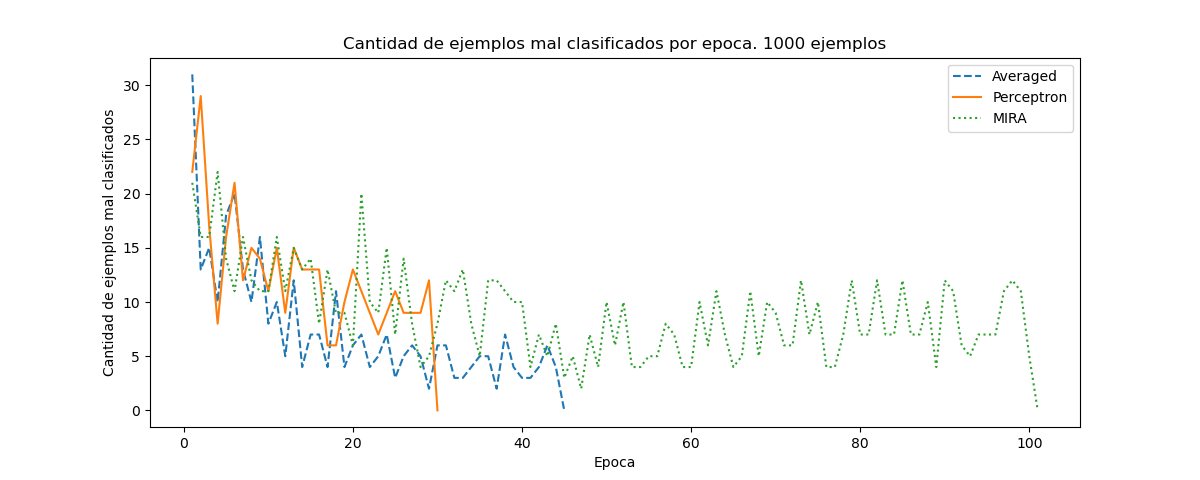
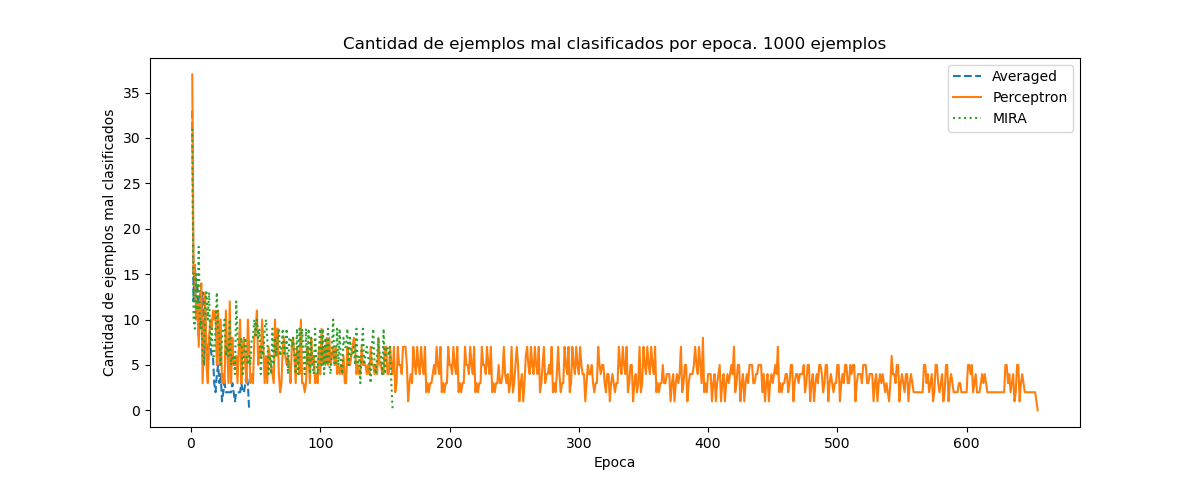
lms

diff --git a/Tarea_1/Perceptron.py b/Tarea_1/Perceptron.py
@@ -3,36 +3,37 @@ import numpy as np
 from sklearn.model_selection import train_test_split
 
 class Perceptron():
-    def __init__(self, data: pd.DataFrame,
+    def __init__(self, 
+                 train_data: pd.DataFrame,
+                 test_data: pd.DataFrame,
                  algorithm: str,
-                 max_iter: int = 100,
                  learning_rate: float = 1) -> None:
         
-        self.data = data
+        self.train_data = train_data
+        self.test_data = test_data
         self.algorithm = algorithm
-        self.max_iter = max_iter
         self.learning_rate = learning_rate
         self.error_per_epoch = []
-        self.weights = np.random.random(len(data.columns))
+        self.weights = np.random.random(len(train_data.columns))
 
         self.__train_model()
     
     def __train_model(self):
-        train, test = train_test_split(self.data, train_size=0.8, test_size=0.2)
-
         if self.algorithm == 'Perceptron':
-            self.__perceptron(train)
+            self.__perceptron(self.train_data)
 
         elif self.algorithm == 'Averaged':
-            self.__averaged(train)
+            self.__averaged(self.train_data)
         
         elif self.algorithm == 'MIRA':
-            self.__MIRA(train)
+            self.__MIRA(self.train_data)
         
+        elif self.algorithm == 'LMS':
+            self.__LMS(self.train_data)
         else:
             raise Exception('Unexpected algorithm')
         
-        self.__test_model(test)
+        self.__test_model(self.test_data)
 
 
     def __perceptron(self, data: pd.DataFrame):
@@ -118,7 +119,32 @@ class Perceptron():
             current_epoch += 1
 
         print(f'convergence reached in {current_epoch} epochs')
-    
+
+    def __LMS(self, data:pd.DataFrame):
+        current_epoch, max_epoch = 0, 5000
+        threshold = 1
+
+        while current_epoch < max_epoch:
+            current_error = 0
+            for _, row in data.iterrows():
+                x = row[data.columns[0: -1]]
+                x['b'] = 1
+                d = int(row[data.columns[-1]])
+
+                y = np.dot(x, self.weights)
+
+                self.weights = self.weights + self.learning_rate*(d - y)*x
+
+                current_error += (d - y)**2
+
+            current_epoch += 1
+
+            if current_error / 2 <= threshold:
+                break
+
+        print(f'convergence reached in {current_epoch} epochs')
+
+
     def __test_model(self, data: pd.DataFrame): 
         bad_classification_counter = 0
 
@@ -134,3 +160,9 @@ class Perceptron():
                 bad_classification_counter += 1
 
         print(f'Number of bad classified examples {bad_classification_counter}')
+
+
+n = 100
+df = pd.read_csv(f'datasets/{n}_3d_coords.csv')
+train, test = train_test_split(df, train_size=0.8, test_size=0.2)
+p = Perceptron(train, test, 'LMS', 0.7)

diff --git a/Tarea_1/Testing_Perceptron.py b/Tarea_1/Testing_Perceptron.py
@@ -2,24 +2,31 @@ import pandas as pd
 from Perceptron import Perceptron
 import matplotlib.pyplot as plt 
 import numpy as np 
+from sklearn.model_selection import train_test_split
 
 class Testing_Perceptron:
     def __init__(self, n: int, learning_rate: float = 1):
         df = pd.read_csv(f'datasets/{n}_3d_coords.csv')
 
+        train, test = train_test_split(df, train_size=0.8, test_size=0.2)
+
+
         print(f'Testing with {n} examples')
         print(f'...:::Perceptron:::...')
-        perceptron = Perceptron(data = df,
+        perceptron = Perceptron(train_data=train,
+                                test_data=test,
                                 algorithm = 'Perceptron',
                                 learning_rate = learning_rate)
         
         print('\n\n...:::Averaged Perceptron:::...')
-        averaged_perceptron = Perceptron(data = df,
+        averaged_perceptron = Perceptron(train_data=train,
+                                         test_data=test,
                                          algorithm = 'Averaged',
                                          learning_rate = learning_rate)
         
         print('\n\n...:::MIRA Perceptron:::...')
-        mira_perceptron = Perceptron(data = df,
+        mira_perceptron = Perceptron(train_data=train,
+                                     test_data=test,
                                      algorithm = 'MIRA',
                                      learning_rate = learning_rate)
         
@@ -42,3 +49,5 @@ class Testing_Perceptron:
         fig.set_figwidth(12)
 
         plt.show()
+
+tp = Testing_Perceptron(10000, 0.7)
